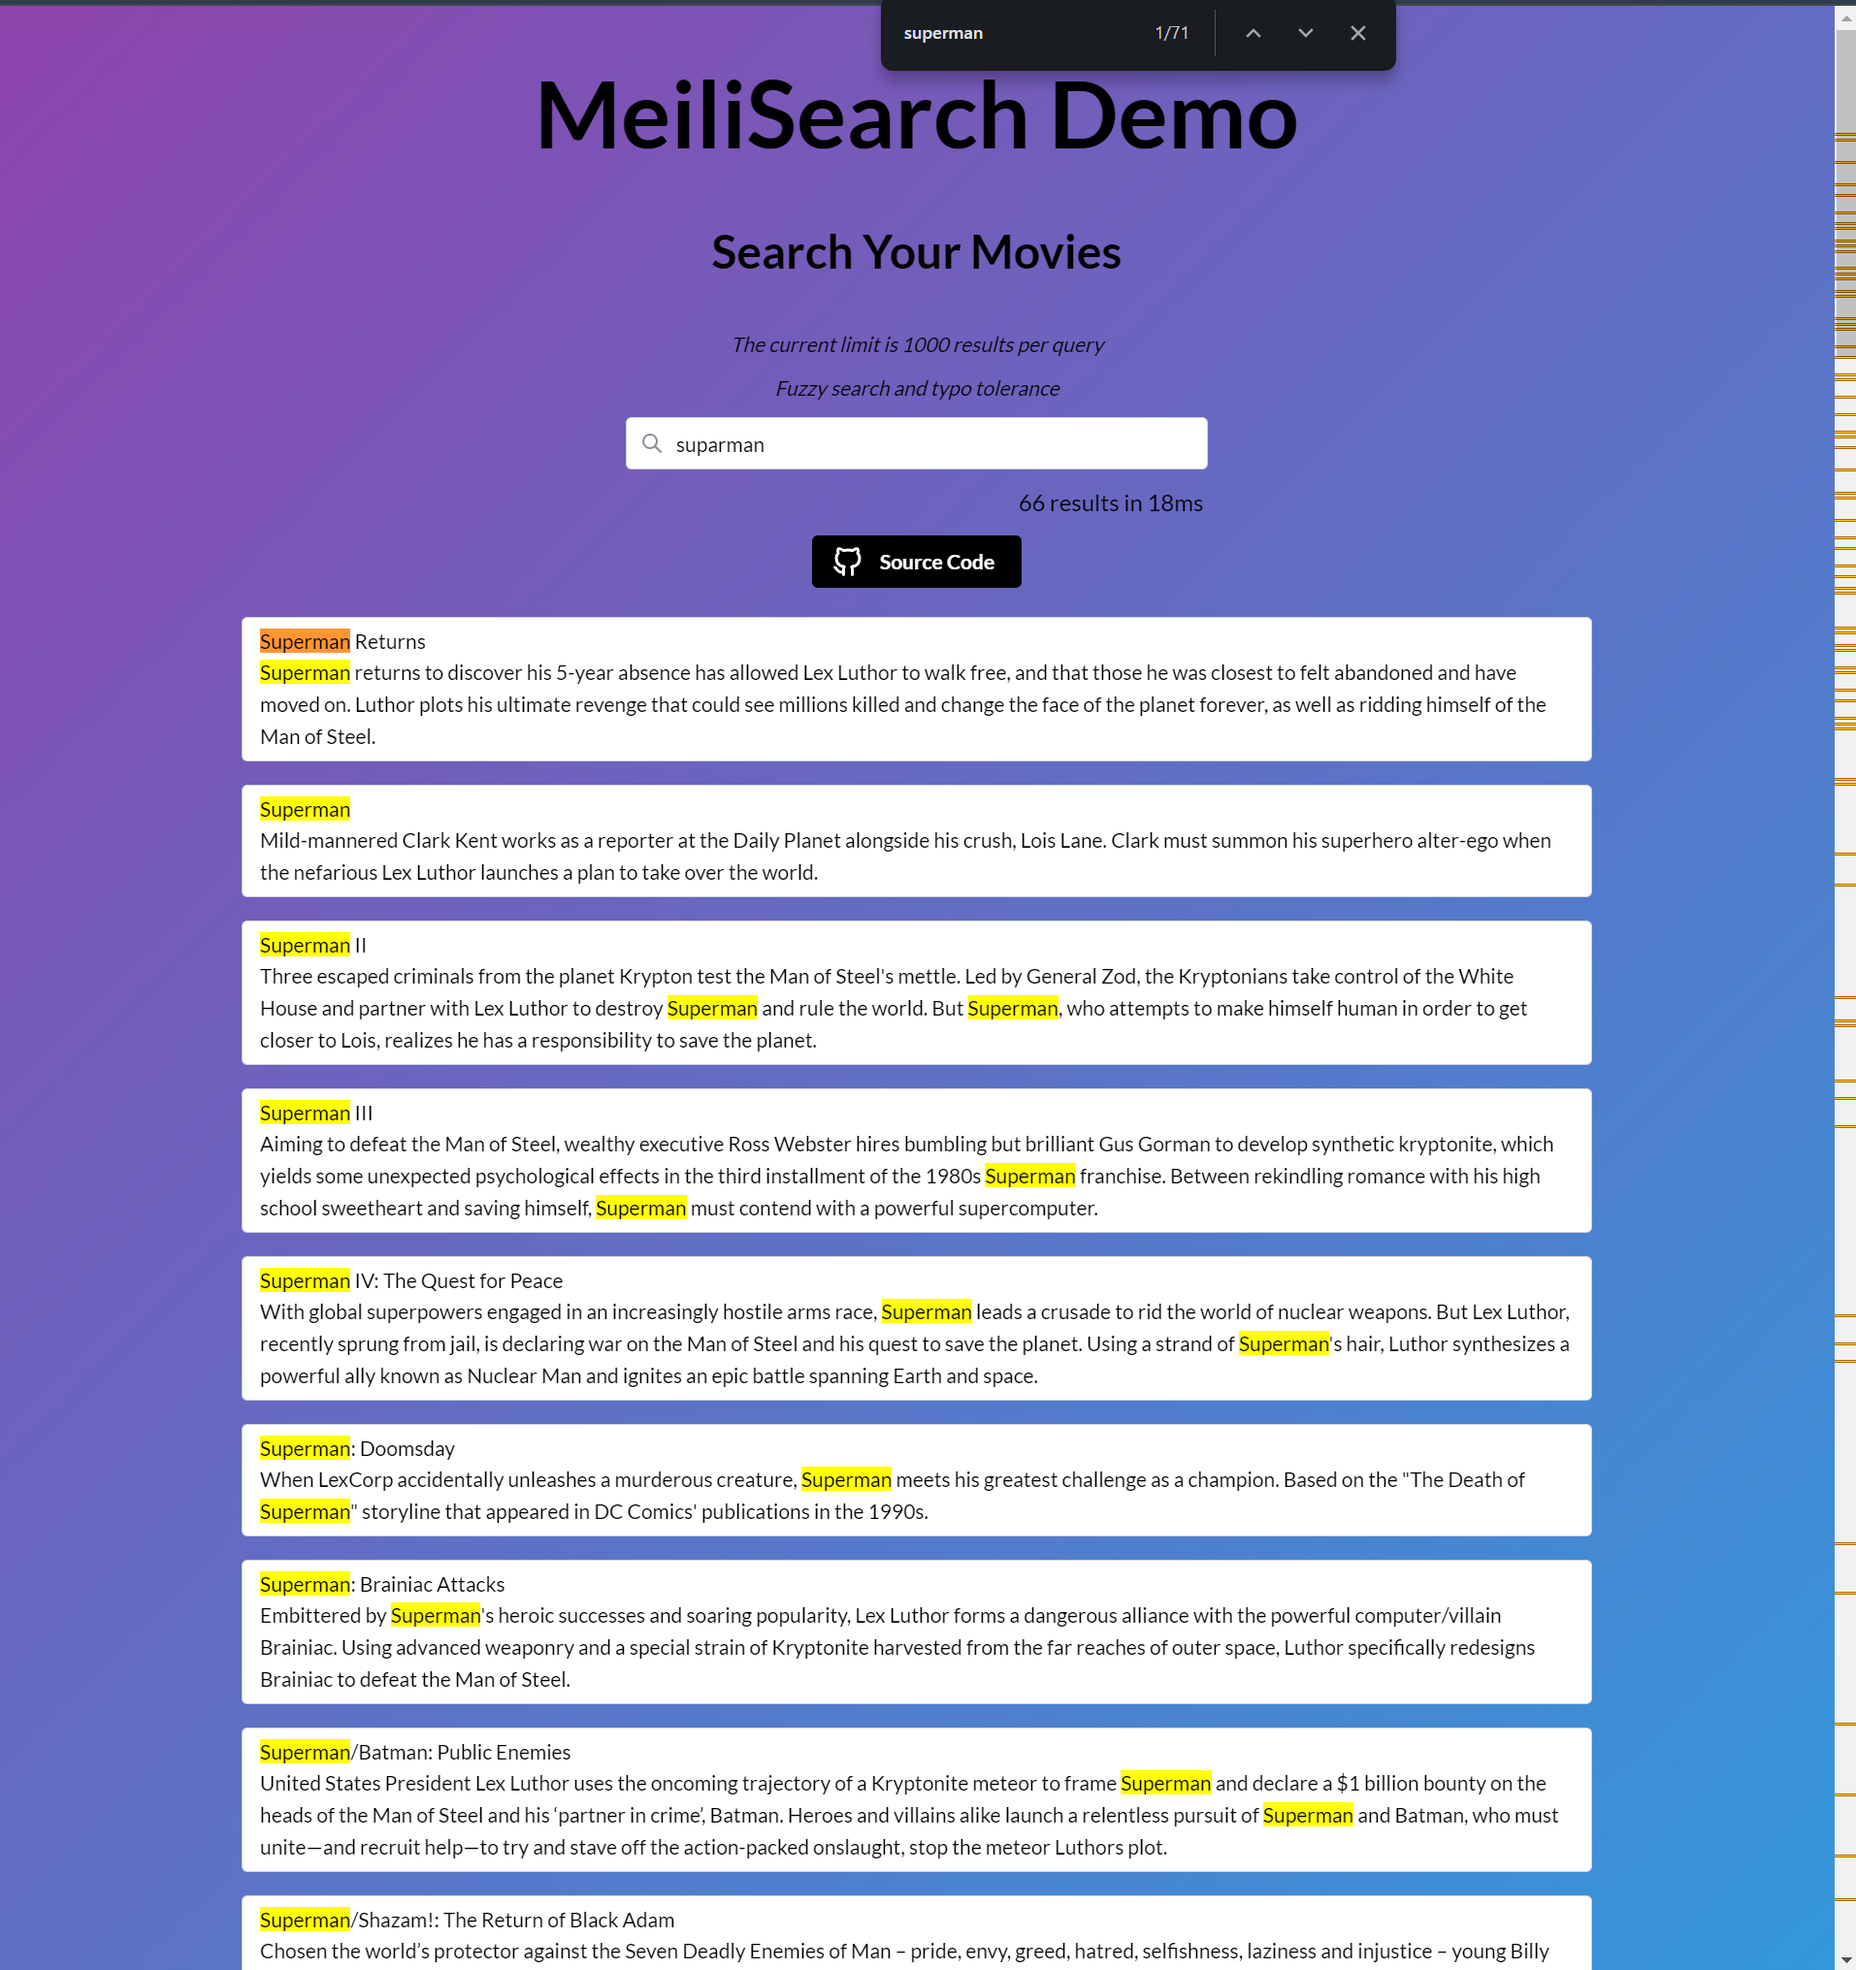
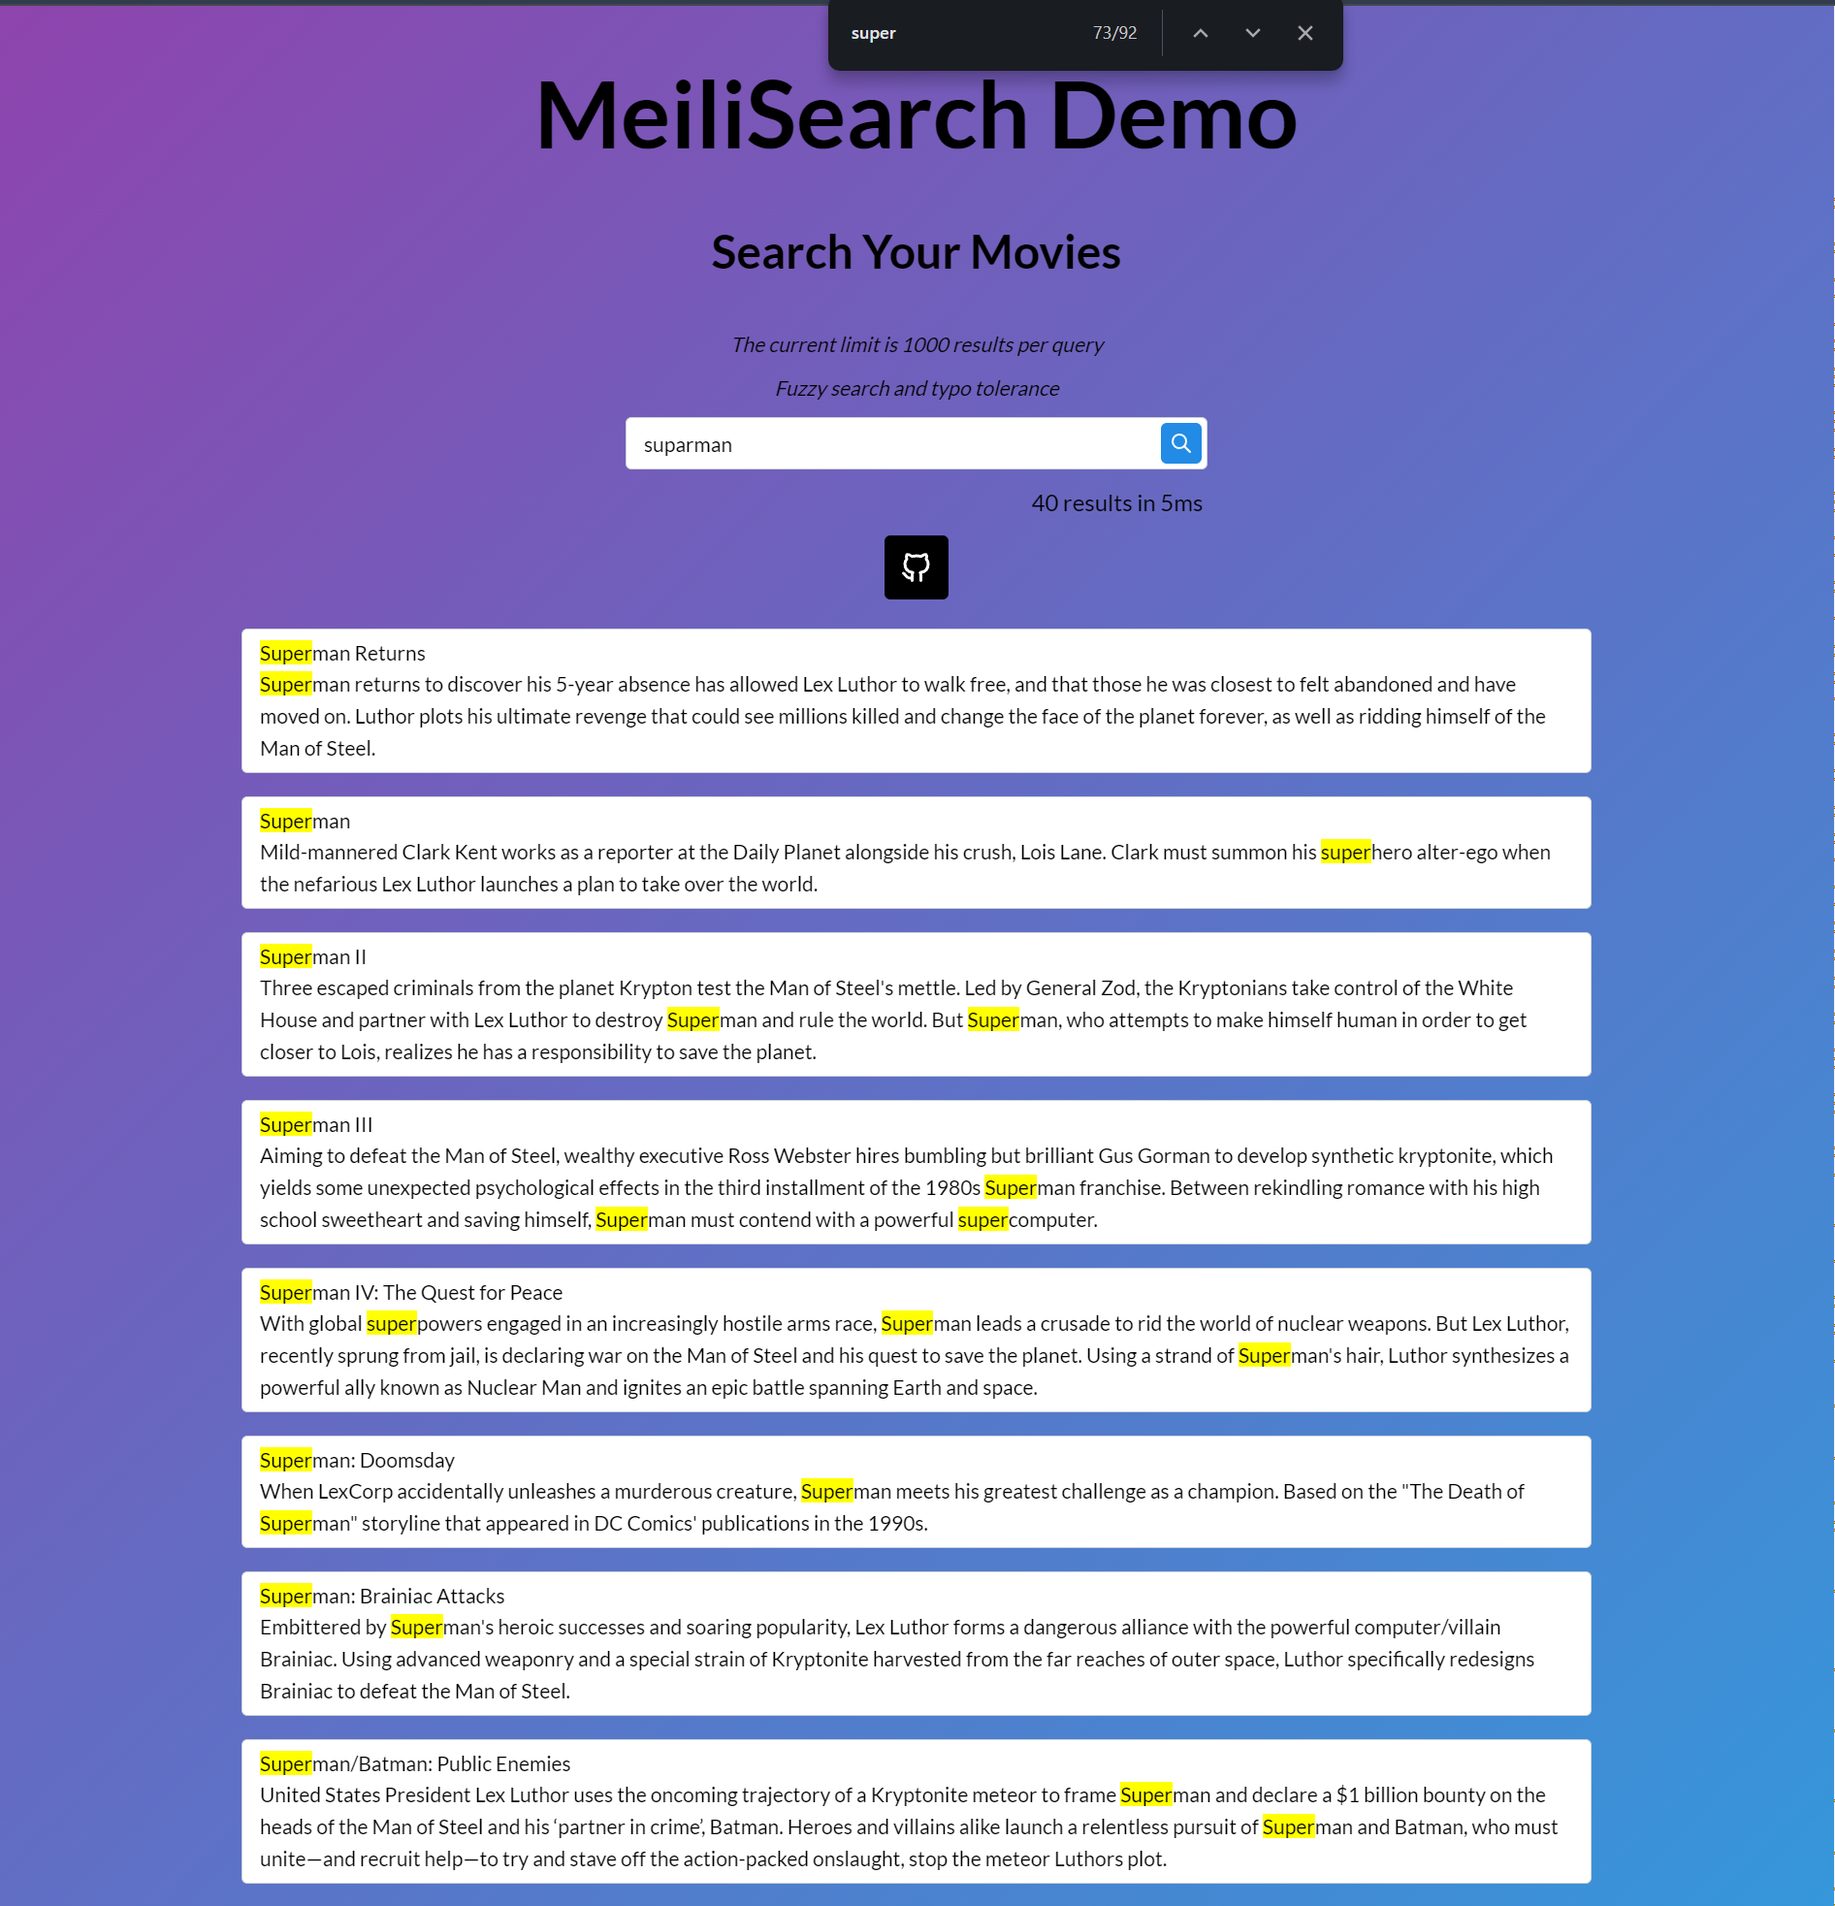
improve search bar ui logic

Changed region(s): [[0.1247, 0.1242, 0.8732, 1.0], [0.9667, 0.0, 1.0, 1.0], [0.2807, 0.0, 0.7796, 0.0931]]

diff --git a/src/component/SearchBar.tsx b/src/component/SearchBar.tsx
@@ -1,11 +1,17 @@
-import { TextInput, Flex, Stack, Text, Button } from '@mantine/core'
+import { TextInput, Flex, Stack, Text, Button, ActionIcon } from '@mantine/core'
 import { IconSearch, IconBrandGithub } from '@tabler/icons-react'
 import { useSearchStore } from '@/stores'
+import { useState } from 'react'
 import perttyms from 'pretty-ms'
 
 export const SearchBar = () => {
 	const length = useSearchStore(state => state.data?.movies.length)
 	const time = useSearchStore(state => state.data?.time)
+	const status = useSearchStore(state => state.status)
+	const [value, setValue] = useState('')
+	const search = () => {
+		useSearchStore.getState().search({ query: value })
+	}
 	return (
 		<Stack maw="25rem" w="100%" gap="xs">
 			<Text size="sm" fs="italic">
@@ -15,26 +21,42 @@ export const SearchBar = () => {
 				Fuzzy search and typo tolerance
 			</Text>
 			<TextInput
-				leftSection={<IconSearch style={{ width: '16px', height: '16px' }} />}
+				onKeyDown={e => {
+					if (e.key === 'Enter') {
+						search()
+					}
+				}}
+				disabled={status === 'loading'}
+				value={value}
 				placeholder="Try shrek, shrak, superman, suparman"
 				w="100%"
 				onChange={event => {
-					useSearchStore.getState().search({ query: event.currentTarget.value })
+					setValue(event.currentTarget.value)
 				}}
+				rightSection={
+					<ActionIcon onClick={search}>
+						<IconSearch style={{ width: '16px', height: '16px' }} />
+					</ActionIcon>
+				}
 			/>
 			<Text size="md" ta="end">
-				{length && time ? `${length} results in ${perttyms(time)}` : ''}&nbsp;
+				{status === 'loading'
+					? 'loading...'
+					: length !== undefined && time
+						? `${length} results in ${perttyms(time)}`
+						: ''}
+				&nbsp;
 			</Text>
 			<Flex justify="center" w="100%">
-				<Button
-					leftSection={<IconBrandGithub />}
+				<ActionIcon
+					size="xl"
 					bg="black"
 					component="a"
 					href="https://github.com/tylim88/Meilisearch-Demo"
 					target="_blank"
 				>
-					Source Code
-				</Button>
+					<IconBrandGithub />
+				</ActionIcon>
 			</Flex>
 		</Stack>
 	)
